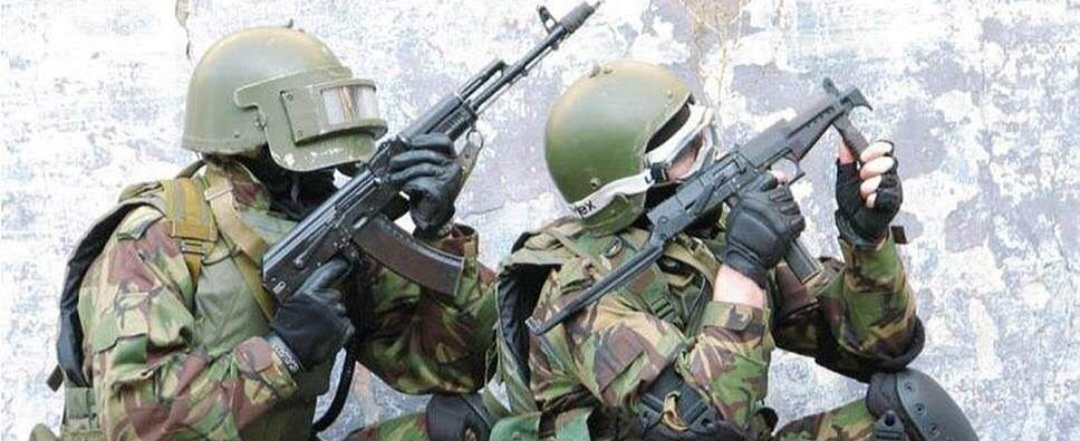
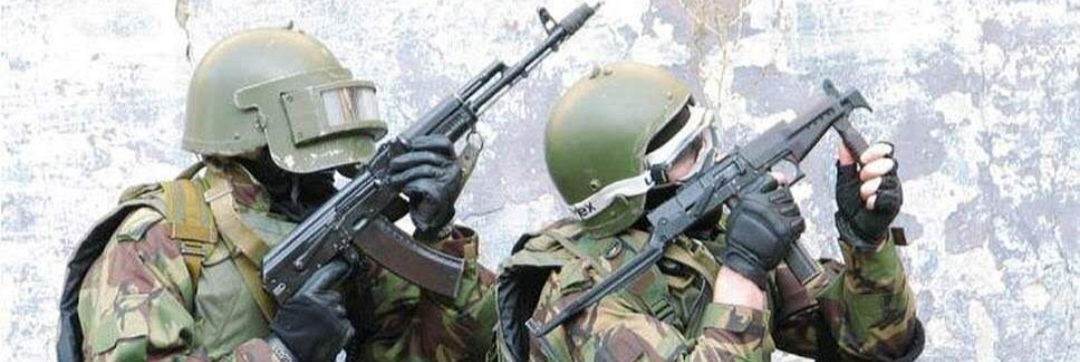
update title

diff --git a/src/config.ts b/src/config.ts
@@ -16,7 +16,7 @@ export const siteConfig: SiteConfig = {
   },
   banner: {
     enable: true,
-    src: 'assets/images/2a.jpg',   // Relative to the /src directory. Relative to the /public directory if it starts with '/'
+    src: 'assets/images/fsb2.jpg',   // Relative to the /src directory. Relative to the /public directory if it starts with '/'
     position: 'center',      // Equivalent to object-position, only supports 'top', 'center', 'bottom'. 'center' by default
     credit: {
       enable: false,         // Display the credit text of the banner image

diff --git a/src/content/posts/ariticle-01/doom-article-01.md b/src/content/posts/ariticle-01/doom-article-01.md
@@ -1,5 +1,5 @@
 ---
-title: 结合Spring Data Neo4j与Java Driver在Spring Boot中处理复杂Neo4j查询
+title: 结合Spring Data Neo4j与Neo4j Java Driver在Spring Boot中处理复杂Neo4j查询
 published: 2024-10-31
 description: ''
 image: "./ling.jpg"
@@ -9,7 +9,7 @@ draft: false
 lang: 'zh_CN'
 ---
 
-# 结合Spring Data Neo4j与Java Driver在Spring Boot中处理复杂Neo4j查询
+# 结合Spring Data Neo4j与Neo4j Java Driver在Spring Boot中处理复杂Neo4j查询
 
 ## Neo4j Java Driver和Spring Data Neo4j
 
